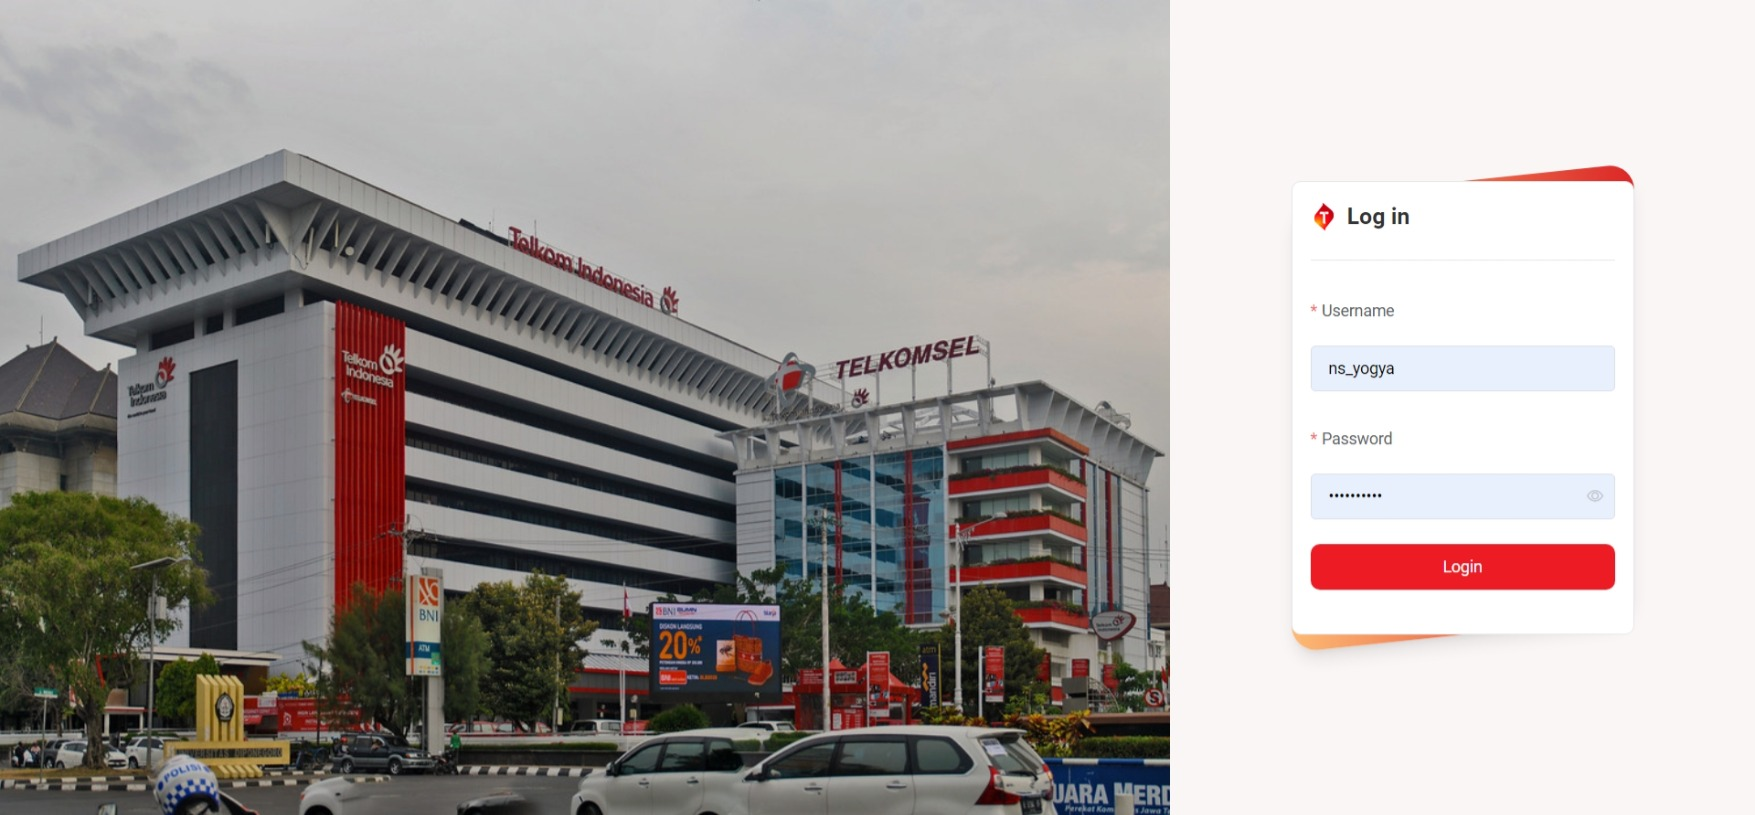
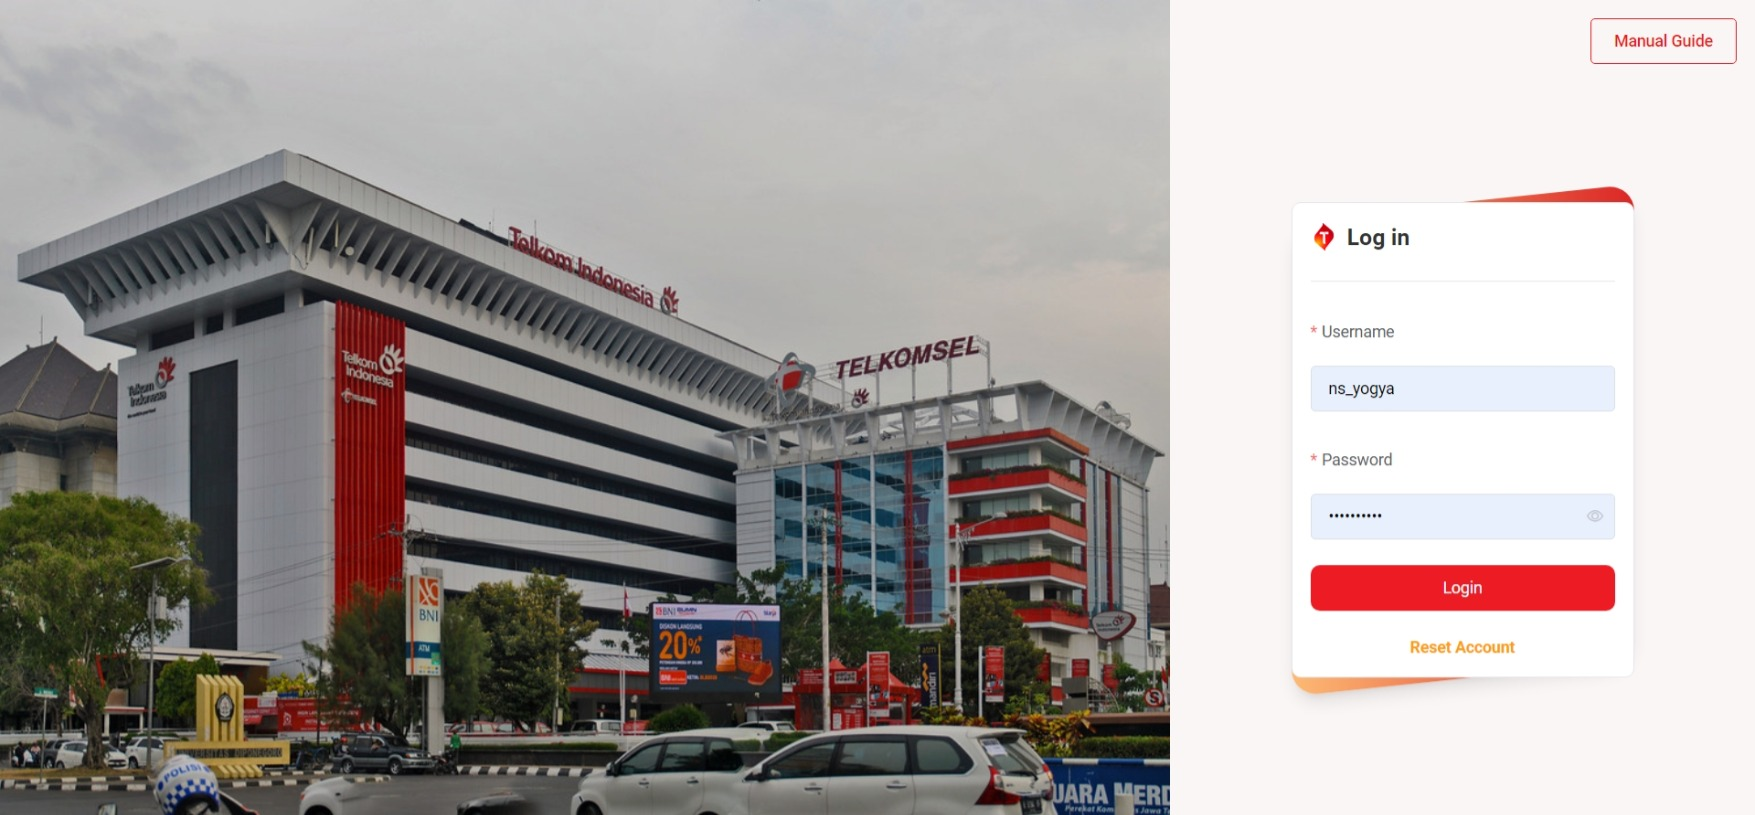
updated docs

diff --git a/src/components/Input/ResetForm.vue b/src/components/Input/ResetForm.vue
@@ -1,7 +1,7 @@
 <template>
 	<section class="relative">
 		<div
-			class="absolute inset-0 bg-gradient-to-r from-red-600 to-orange-300 shadow-lg transform -skew-y-3 rounded-3xl"
+			class="absolute inset-0 bg-gradient-to-r from-red-600 to-orange-300 shadow-lg transform -skew-y-6 rounded-3xl"
 		/>
 		<section
 			v-loading="loading"
@@ -79,6 +79,7 @@
 <script>
 import { Button } from "@/components";
 import { useFetch } from "@/composables";
+import router from "@/router/router";
 
 export default {
 	components: {
@@ -192,8 +193,10 @@ export default {
 
 								this.$notify.success({
 									title: "Success",
-									message: "User has been reset, please login again",
+									message: "Reset account success, you can login now!",
 								});
+
+								router.push("/login");
 
 								unwatch();
 							} else if (newStatus === "error" && newMessage) {

diff --git a/src/components/Dialog/ModalAccount.vue b/src/components/Dialog/ModalAccount.vue
@@ -113,11 +113,10 @@ function onSubmit() {
 			const body = new FormData();
 			let url = "";
 
-			body.append("uuid", userUuid.value);
 			body.append("oldUsername", username.value);
 			body.append("username", form.value.username);
 			body.append("ns", form.value.namaNS);
-			url = "/api/auth/user/" + username.value;
+			url = "/api/auth/user/" + userUuid.value;
 
 			const { data, status, message } = useFetch({
 				url: url,

diff --git a/docs/admin/README.md b/docs/admin/README.md
@@ -88,7 +88,8 @@ Dalam website ini, data activity, program, dan subprogram yang digunakan adalah 
 
    <img :src="$withBase('/images/admin/database_import.png')" alt="import database" height="200" style="object-fit: contain;" />
 
-5. Pilih file csv yang akan diimport, Anda dapat mengunduh template csv pada link berikut: 
+5. Pilih file csv yang akan diimport, Anda dapat mengunduh template csv pada link berikut:
+
    - [activity.csv](/documents/activity.csv)
    - [program.csv](/documents/program.csv)
    - [subprogram.csv](documents/subprogram.csv)
@@ -341,14 +342,12 @@ Pada halaman ini, Anda dapat melihat data-data yang akan diimport. Beberapa hal 
 - Untuk mengetahui perbedaan data yang ada di database dan data yang akan diimport, Anda dapat mengarahkan kursor ke kolom yang berwarna <strong style="color:rgb(22, 163, 74);">hijau</strong>, maka akan muncul tooltip dari data sebelumnya seperti berikut ini:
 
    <img :src="$withBase('/images/plan-activities/import_tooltip.png')" alt="plan activities import confirm tooltip" height="150" style="object-fit: contain;" />
-   
+
 - Apabila Anda ingin membatalkan keseluruhan data, maka Anda dapat mengklik button `Cancel` dan mengonfirmasi pembatalan update.
-   
-   <img :src="$withBase('/images/plan-activities/import_cancel.png')" alt="plan activities import confirm cancel" height="150" style="object-fit: contain;" />
-   
+  <img :src="$withBase('/images/plan-activities/import_cancel.png')" alt="plan activities import confirm cancel" height="150" style="object-fit: contain;" />
+
 - Apabila Anda sudah yakin dengan pilihan data yang akan diupdate, Anda dapat mengklik button `Update` dan mengonfirmasi bahwa akan mengupdate.
-   
-   <img :src="$withBase('/images/plan-activities/import_update.png')" alt="plan activities import confirm update" height="150" style="object-fit: contain;" />
+  <img :src="$withBase('/images/plan-activities/import_update.png')" alt="plan activities import confirm update" height="150" style="object-fit: contain;" />
 
 Apabila update berhasil dieksekusi, maka akan muncul notifikasi seperti berikut:
 
@@ -559,7 +558,7 @@ Anda dapat mengedit data `site` dengan mengklik Ikon <img :src="$withBase('/icon
 
 <img :src="$withBase('/images/sites/edit_warning.png')" alt="sites edit success" height="200" style="object-fit: contain;" />
 
-Apabila data `site` yang anda pilih memiliki `plan activity` yang sudah diinputkan, maka pada bagian atas form akan muncul alert yang menginformasikan berapa banyak `plan activity` yang terkait dengan `site` tersebut. Anda dapat melihat data `plan activity`  tersebut dengan mengklik button `Review`.
+Apabila data `site` yang anda pilih memiliki `plan activity` yang sudah diinputkan, maka pada bagian atas form akan muncul alert yang menginformasikan berapa banyak `plan activity` yang terkait dengan `site` tersebut. Anda dapat melihat data `plan activity` tersebut dengan mengklik button `Review`.
 
 Apabila Anda yakin ingin mengubah data `site`, Anda dapat mengubah data pada form `update site`. Jika sudah sesuai, Anda dapat mengklik button `Update Data` untuk menyimpan perubahan data dan mengonfirmasi perubahan data tersebut. Apabila berhasil, maka akan muncul notifikasi seperti berikut:
 
@@ -588,7 +587,6 @@ Pada halaman ini, Anda dapat mengelola data `accounts` yang terdaftar pada siste
 - Menonaktifkan atau mengaktifkan akun
 - Mereset password akun
 
-
 ### 1. Menambahkan akun baru
 
 Anda dapat menambahkan akun baru dengan mengklik button `Add Account` yang terdapat di bagian sebelah kanan atas tabel. Setelah itu, Anda akan diarahkan ke form `add new account`.
@@ -615,7 +613,7 @@ Anda dapat mengedit data akun dengan mengklik Ikon <img :src="$withBase('/icons/
 
 <img :src="$withBase('/images/accounts/edit.png')" alt="accounts edit" height="500" style="object-fit: contain;" />
 
-Anda dapat mengubah data `username`, `NS Department`, dan `status` akun. Apabila data yang Anda ubah sudah sesuai, Anda dapat mengklik button `Update` untuk menyimpan perubahan data dan mengonfirmasi perubahan data tersebut. Apabila berhasil, maka akan muncul notifikasi seperti berikut:
+Anda dapat mengubah data `username` dan `NS Department`. Apabila data yang Anda ubah sudah sesuai, Anda dapat mengklik button `Update` untuk menyimpan perubahan data dan mengonfirmasi perubahan data tersebut. Apabila berhasil, maka akan muncul notifikasi seperti berikut:
 
 <img :src="$withBase('/images/accounts/edit_success.png')" alt="accounts edit success" height="200" style="object-fit: contain;" />
 
@@ -629,18 +627,14 @@ Anda dapat memilih salah satu dari pilihan tersebut. Apabila berhasil, maka akan
 
 <img :src="$withBase('/images/accounts/update_status_success.png')" alt="accounts update success" height="200" style="object-fit: contain;" />
 
-### 4. Mereset password akun
+### 4. Mereset akun
 
-Ada kalanya, Anda ataupun user akan lupa dengan password akun yang telah dibuat. Untuk mengatasi hal tersebut, Anda dapat mereset password akun dengan mengklik Ikon <img :src="$withBase('/icons/key.png')" alt="icon reset" height="20" style="object-fit: contain;" /> yang terdapat di kolom Action paling kanan tabel. Setelah itu, akan muncul modal untuk mereset password akun.
+<img :src="$withBase('/images/accounts/reset.png')" alt="accounts reset" height="150" style="object-fit: contain;" />
 
-<img :src="$withBase('/images/accounts/reset.png')" alt="accounts reset password" height="400" style="object-fit: contain;" />
+Ada kalanya, User akan lupa dengan password akun yang telah mereka buat. Untuk mengatasi hal tersebut, Anda dapat mereset akun sehingga user dapat melakukan reset ulang akun mereka. Anda dapat dengan mengklik Ikon <img :src="$withBase('/icons/key.png')" alt="icon reset" height="20" style="object-fit: contain;" /> yang terdapat di kolom `Reset Account` tabel. Setelah itu, akan muncul modal untuk mengonfirmasi reset account.
 
-Anda dapat mengubah password dengan menginputkan password baru pada kolom `Password` dan mengkonfirmasi password baru pada kolom `Confirm New Password`. **Pastikan format password harus terdiri minimal dari 8 karakter dan minimal memiliki 1 huruf besar, 1 huruf kecil, dan 1 angka**.
+<img :src="$withBase('/images/accounts/reset_confirmation.png')" alt="accounts reset confirmation" height="400" style="object-fit: contain;" />
 
 Apabila berhasil, maka akan muncul notifikasi seperti berikut:
 
 <img :src="$withBase('/images/accounts/reset_success.png')" alt="accounts reset password success" height="200" style="object-fit: contain;" />
-
-::: warning Ingat!
-Jangan lupa menyimpan password baru yang telah Anda buat ke dalam password manager Anda untuk menghindari situasi yang sama berulang kali.
-:::

diff --git a/docs/user/README.md b/docs/user/README.md
@@ -10,7 +10,27 @@
 
 Untuk mengakses website, Anda wajib melakukan login terlebih dahulu. Anda dapat menggunakan akun yang telah dibuat oleh admin. Jika Anda belum memiliki akun, Anda dapat menghubungi admin untuk membuatkan akun untuk Anda. Untuk login cukup mengisi kolom `username` dan `password` sebagai kredensial. Jika kredensial yang Anda masukkan benar, Anda akan diarahkan ke halaman dashboard.
 
-## II. Halaman Dashboard
+### Lupa Password
+
+<img :src="$withBase('/images/page_login_reset.png')" alt="login reset account link" height="400" style="object-fit: contain;" />
+
+Namun, bagaimana apabila Anda lupa password? **Pertama Anda harus menghubungi Admin terlebih dahulu untuk mereset akun Anda**. Setelah itu, Anda dapat mengklik link `Reset Account` yang berada di bawah button `Login`.
+
+## II. Halaman Reset Account
+
+<img :src="$withBase('/images/page_reset.jpeg')" alt="reset account" height="400" style="object-fit: contain;" />
+
+Setelah Anda mengklik link `Reset Account`, Anda akan diarahkan ke halaman reset account. Pada halaman ini, Anda dapat mengubah password Anda dengan mengisi kolom `Username`, `Password` dan `Confirm New Password`. Anda juga dapat mengubah `Username` Anda dengan mengklik checkbox `Change Username` dan mengisi kolom `New Username`. **Pastikan format password harus terdiri minimal dari 8 karakter dan minimal memiliki 1 huruf besar, 1 huruf kecil, dan 1 angka**.
+
+Setelah semua kolom terisi, Anda dapat mengklik button `Reset Account` untuk mengubah password dan username Anda. Apabila berhasil, akan muncul notifikasi success dan Anda akan diarahkan ke halaman login.
+
+<img :src="$withBase('/images/page_reset_success.png')" alt="reset account success" height="400" style="object-fit: contain;" />
+
+::: warning Ingat!
+Jangan lupa menyimpan password baru yang telah Anda buat ke dalam password manager Anda untuk menghindari situasi yang sama berulang kali.
+:::
+
+## III. Halaman Dashboard
 
 <img :src="$withBase('/images/dashboard/page.jpeg')" alt="dashboard" height="400" style="object-fit: contain;" />
 
@@ -81,7 +101,7 @@ Sama halnya dengan target quartal, secara default akan menampilkan seluruh targe
 - 3. Pada kolom terakhir, Anda dapat mengetahui grand total dari aktivitas tersebut dari keseluruhan DO
 - 4. Pada baris terakhir, Anda dapat mengetahui grand total dari DO terhadap keseluruhan aktivitas yang ada
 
-## III. Halaman Project Planner
+## IV. Halaman Project Planner
 
 <img :src="$withBase('/images/project-planner/page.jpeg')" alt="project planner" height="400" style="object-fit: contain;" />
 
@@ -123,7 +143,7 @@ Pada bagian ini, Anda dapat melihat lebih detail informasi progress dari aktivit
 - <div style="background-color:rgb(253, 186, 116); width: 10px; height: 10px; display: inline-block;"></div> <strong>Beyond Actual Start</strong>. MenAndakan bahwa aktivitas tersebut dimulai diluar rentang durasi dari rencana yang telah dijadwalkan
 - <div style="background-color:rgb(234, 88, 12); width: 10px; height: 10px; display: inline-block;"></div> <strong>Beyond Actual End</strong>. MenAndakan bahwa aktivitas tersebut selesai diluar rentang durasi dari rencana yang telah dijadwalkan
 
-## IV. Halaman Plan Activities
+## V. Halaman Plan Activities
 
 <img :src="$withBase('/images/plan-activities/page.jpeg')" alt="plan activities" height="400" style="object-fit: contain;" />
 
@@ -186,7 +206,6 @@ Pada modal tersebut akan muncul preview data yang akan dihapus. Anda dapat mengu
 Jika semua status yang Anda pilih sudah sesuai, Anda dapat mengklik button `Update` dan mengonfirmasi bahwa akan melakukan update status secara massal. Apabila Anda ingin membatalkan update status, Anda dapat mengklik button `Cancel`. Setelah melakukan update status, maka akan muncul notifikasi sukses dan secara otomatis data pada tabel akan berubah sesuai dengan data yang telah Anda update.
 
 <img :src="$withBase('/images/plan-activities/bulk_update_status_success.png')" alt="plan activities update status massal success" height="300" style="object-fit: contain;" />
-
 
 ### 4. Mengedit data `plan activity`
 
